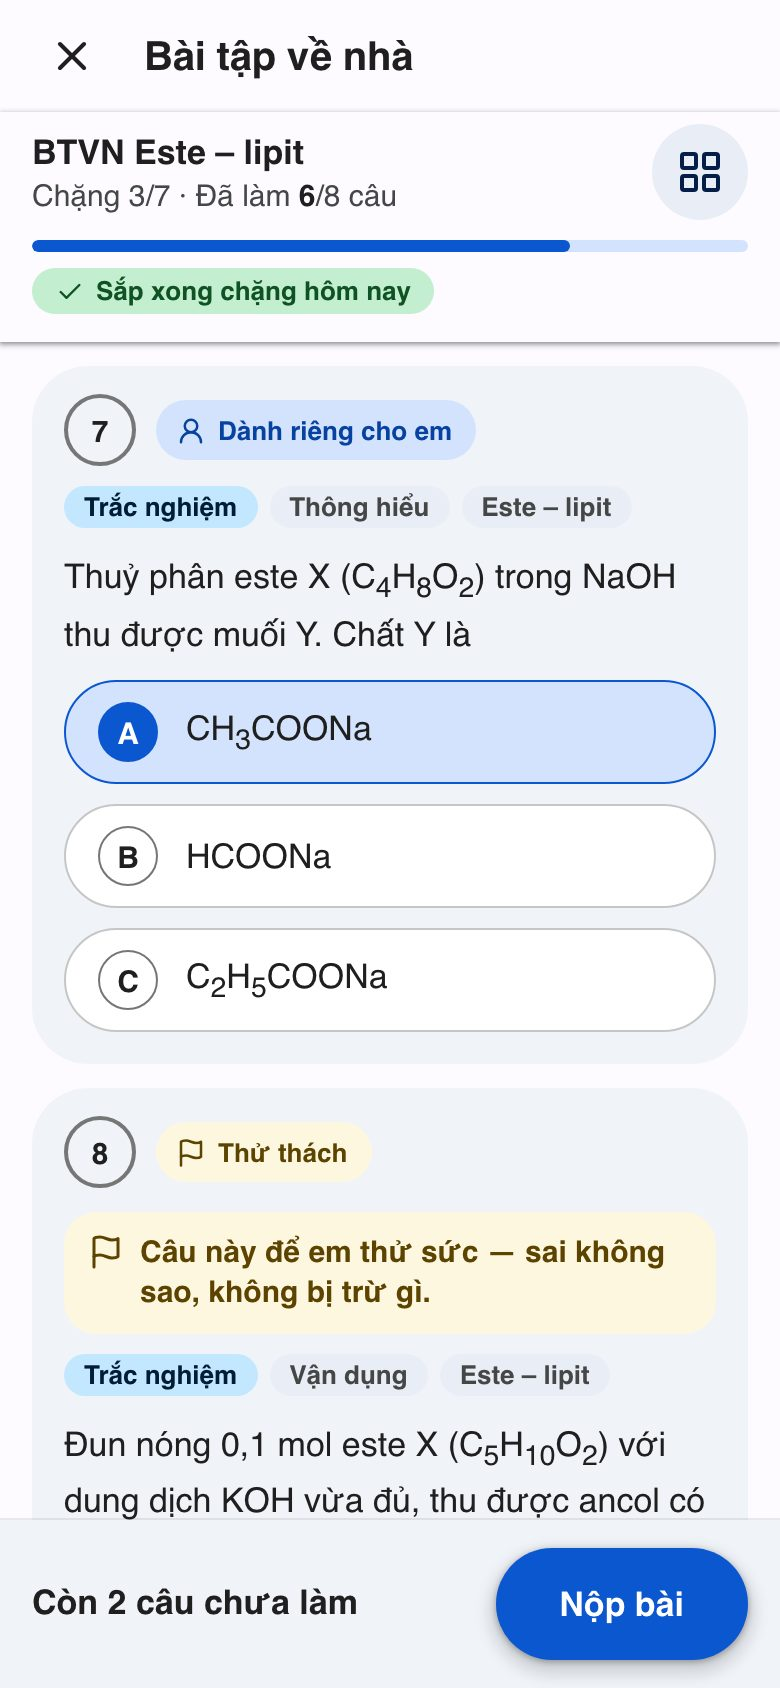
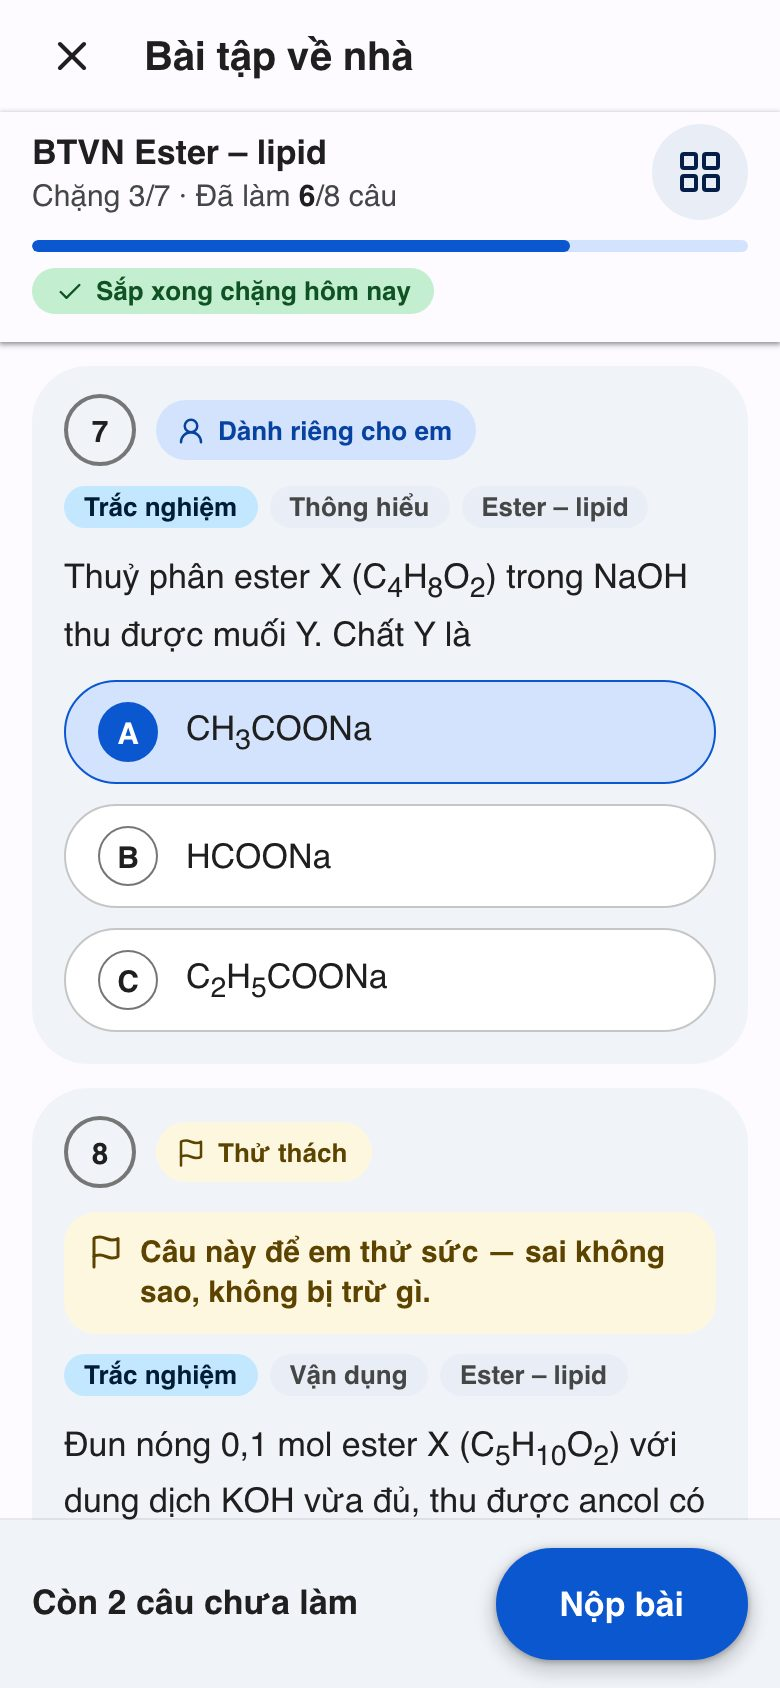
BTVN nâng đỡ · mẫu học sinh: đổi chữ sang danh pháp 2018 (ester, lipid) theo Boss

Changed region(s): [[0.4, 0.2773, 0.8923, 0.3697], [0.5231, 0.8009, 0.8615, 0.8626], [0.3077, 0.0616, 0.4308, 0.1232]]

diff --git a/docs/ban-ve-btvn-nang-do-2109/hs-mau.html b/docs/ban-ve-btvn-nang-do-2109/hs-mau.html
@@ -157,7 +157,7 @@ svg{width:1em;height:1em;flex:none;fill:none;stroke:currentColor;stroke-width:2;
   <div class="dau">
     <div class="dau-hang">
       <div class="dau-chu">
-        <div class="dau-tieu">BTVN Este – lipit</div>
+        <div class="dau-tieu">BTVN Ester – lipid</div>
         <div class="dau-phu">Chặng 1/7 · Đã làm <b>0</b>/8 câu</div>
       </div>
       <span class="luoi"><svg><use href="#i-luoi"/></svg></span>
@@ -188,8 +188,8 @@ svg{width:1em;height:1em;flex:none;fill:none;stroke:currentColor;stroke-width:2;
 
     <article class="cau">
       <div class="cau-tren"><span class="so">1</span><span class="nh kd"><svg><use href="#i-zap"/></svg>Khởi động</span></div>
-      <div class="chips"><span class="ch l">Trắc nghiệm</span><span class="ch">Nhận biết</span><span class="ch">Este – lipit</span></div>
-      <p class="de">Chất nào sau đây là este?</p>
+      <div class="chips"><span class="ch l">Trắc nghiệm</span><span class="ch">Nhận biết</span><span class="ch">Ester – lipid</span></div>
+      <p class="de">Chất nào sau đây là ester?</p>
       <div class="dap"><b>A</b><span>CH<sub>3</sub>COOH</span></div>
       <div class="dap"><b>B</b><span>CH<sub>3</sub>COOCH<sub>3</sub></span></div>
       <div class="dap"><b>C</b><span>C<sub>2</sub>H<sub>5</sub>OH</span></div>
@@ -204,7 +204,7 @@ svg{width:1em;height:1em;flex:none;fill:none;stroke:currentColor;stroke-width:2;
   <div class="dau">
     <div class="dau-hang">
       <div class="dau-chu">
-        <div class="dau-tieu">BTVN Este – lipit</div>
+        <div class="dau-tieu">BTVN Ester – lipid</div>
         <div class="dau-phu">Chặng 3/7 · Đã làm <b>6</b>/8 câu</div>
       </div>
       <span class="luoi"><svg><use href="#i-luoi"/></svg></span>
@@ -215,8 +215,8 @@ svg{width:1em;height:1em;flex:none;fill:none;stroke:currentColor;stroke-width:2;
   <div class="cuon">
     <article class="cau">
       <div class="cau-tren"><span class="so">7</span><span class="nh rr"><svg><use href="#i-user"/></svg>Dành riêng cho em</span></div>
-      <div class="chips"><span class="ch l">Trắc nghiệm</span><span class="ch">Thông hiểu</span><span class="ch">Este – lipit</span></div>
-      <p class="de">Thuỷ phân este X (C<sub>4</sub>H<sub>8</sub>O<sub>2</sub>) trong NaOH thu được muối Y. Chất Y là</p>
+      <div class="chips"><span class="ch l">Trắc nghiệm</span><span class="ch">Thông hiểu</span><span class="ch">Ester – lipid</span></div>
+      <p class="de">Thuỷ phân ester X (C<sub>4</sub>H<sub>8</sub>O<sub>2</sub>) trong NaOH thu được muối Y. Chất Y là</p>
       <div class="dap chon"><b>A</b><span>CH<sub>3</sub>COONa</span></div>
       <div class="dap"><b>B</b><span>HCOONa</span></div>
       <div class="dap"><b>C</b><span>C<sub>2</sub>H<sub>5</sub>COONa</span></div>
@@ -225,8 +225,8 @@ svg{width:1em;height:1em;flex:none;fill:none;stroke:currentColor;stroke-width:2;
     <article class="cau">
       <div class="cau-tren"><span class="so">8</span><span class="nh tt"><svg><use href="#i-flag"/></svg>Thử thách</span></div>
       <div class="tt-ghi"><svg><use href="#i-flag"/></svg>Câu này để em thử sức — sai không sao, không bị trừ gì.</div>
-      <div class="chips"><span class="ch l">Trắc nghiệm</span><span class="ch">Vận dụng</span><span class="ch">Este – lipit</span></div>
-      <p class="de">Đun nóng 0,1 mol este X (C<sub>5</sub>H<sub>10</sub>O<sub>2</sub>) với dung dịch KOH vừa đủ, thu được ancol có phân tử khối là</p>
+      <div class="chips"><span class="ch l">Trắc nghiệm</span><span class="ch">Vận dụng</span><span class="ch">Ester – lipid</span></div>
+      <p class="de">Đun nóng 0,1 mol ester X (C<sub>5</sub>H<sub>10</sub>O<sub>2</sub>) với dung dịch KOH vừa đủ, thu được ancol có phân tử khối là</p>
     </article>
   </div>
   <footer class="day"><span class="day-con">Còn 2 câu chưa làm</span><span class="nut">Nộp bài</span></footer>
@@ -242,7 +242,7 @@ svg{width:1em;height:1em;flex:none;fill:none;stroke:currentColor;stroke-width:2;
   </div>
   <div class="cuon">
     <div class="tienbo">
-      <div class="tienbo-nhan"><span class="o-bt"><svg><use href="#i-len"/></svg></span>Dạng “Thuỷ phân este”</div>
+      <div class="tienbo-nhan"><span class="o-bt"><svg><use href="#i-len"/></svg></span>Dạng “Thuỷ phân ester”</div>
       <div class="bac"><span class="cu">Biết</span><svg><use href="#i-tiep"/></svg><span class="moi">Hiểu<svg><use href="#i-len"/></svg></span></div>
       <div class="thang"><div class="on"><i></i>Biết</div><div class="on"><i></i>Hiểu</div><div><i></i>Vận dụng</div></div>
       <p>Em đúng 2 câu liền ở bậc Biết, nên từ chặng sau có câu bậc Hiểu.</p>
@@ -251,7 +251,7 @@ svg{width:1em;height:1em;flex:none;fill:none;stroke:currentColor;stroke-width:2;
     <div class="the ds">
       <div class="ds-hang"><span class="o-bt"><svg><use href="#i-lai"/></svg></span><div class="ds-chu"><b>Đúng lại 2 câu từng sai</b><span>Hôm trước sai, hôm nay em làm đúng</span></div></div>
       <div class="ds-hang vang"><span class="o-bt"><svg><use href="#i-flag"/></svg></span><div class="ds-chu"><b>Đã thử 1 câu thử thách</b><span>Sai không sao — em đã dám thử sức</span></div></div>
-      <div class="ds-hang"><span class="o-bt"><svg><use href="#i-sao"/></svg></span><div class="ds-chu"><b>Sổ tay dạng bài sáng thêm 1 sao</b><span>Thuỷ phân este · <span class="sao"><svg><use href="#i-sao"/></svg><svg><use href="#i-sao"/></svg><svg class="rong"><use href="#i-sao"/></svg></span></span></div></div>
+      <div class="ds-hang"><span class="o-bt"><svg><use href="#i-sao"/></svg></span><div class="ds-chu"><b>Sổ tay dạng bài sáng thêm 1 sao</b><span>Thuỷ phân ester · <span class="sao"><svg><use href="#i-sao"/></svg><svg><use href="#i-sao"/></svg><svg class="rong"><use href="#i-sao"/></svg></span></span></div></div>
     </div>
 
     <div class="the exp">
